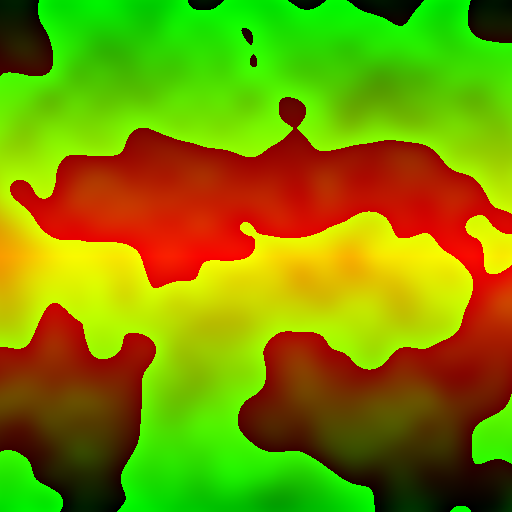
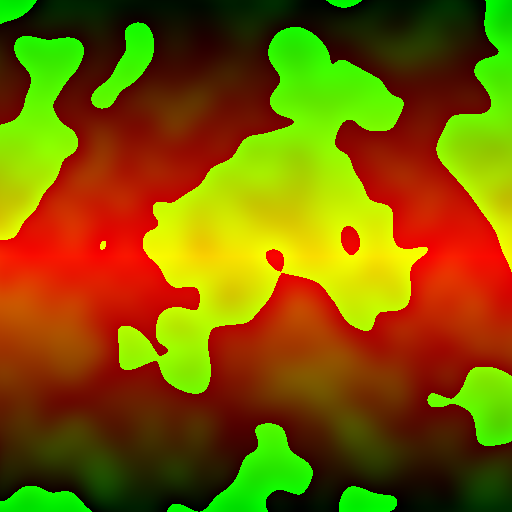
world generation just got more complicated

diff --git a/roguelike/World.cpp b/roguelike/World.cpp
@@ -31,7 +31,7 @@ void World::generate_world() {
 	generate_temperature();
 	generate_terrain();
 	generate_biome_map();
-//	generate_biomes();
+	generate_biomes();
 	
 	new_level(256, 256);
 	save_temp_and_terrain_maps("Data\\World.png");
@@ -73,25 +73,57 @@ void World::generate_terrain() {
 }
 
 void World::generate_biome_map() {
-	float currnoise = 0.0f;
-	float lastnoise = 0.0f;
 	for (int x = 0; x < _width; x++) {
 		for (int y = 0; y < _height; y++) {
 			if (_world[x][y].height <= 0) {
 				_world[x][y].biome_noise = _biome_n.GetNoise(x, y);
-				currnoise = _biome_n.GetNoise(x, y);
-				if (currnoise != lastnoise) {
-					_diff_bnoise.push_back(lastnoise);
-				}
-				lastnoise = currnoise;
 			}
 		}
 	}
 }
 
 void World::generate_biomes() {
-	for (int i = 0; i < _diff_bnoise.size(); i++) {
-		std::cout << _diff_bnoise[i] << std::endl;
+	std::vector<float> vals;
+	for (int x = 0; x < _width; x++) {
+		for (int y = 0; y < _height; y++) {
+			if (_world[x][y].biome_noise != 0.0f) {
+				if (std::find(vals.begin(), vals.end(), _world[x][y].biome_noise) == vals.end()) {
+					vals.push_back(_world[x][y].biome_noise);
+				}
+			}
+		}
+	}
+	std::vector<LevelTile*> lv;
+	for (int i = 0; i < vals.size(); i++) {
+		for (int x = 0; x < _width; x++) {
+			for (int y = 0; y < _height; y++) {
+				if (_world[x][y].biome_noise == vals[i]) {
+					lv.push_back(&_world[x][y]);
+				}
+			}
+		}
+		int avgtmp = 0;
+		for (int j = 0; j < lv.size(); j++) {
+			avgtmp += lv[j]->temp;
+		}
+		avgtmp = avgtmp / lv.size();
+		Level::LEVEL_TYPE biome = Level::NONE;
+		if (avgtmp == 0) {
+			std::shuffle(cold_biomes.begin(), cold_biomes.end(), Random::generator);
+			biome = cold_biomes[0];
+		}
+		else if (avgtmp > 200) {
+			std::shuffle(hot_biomes.begin(), hot_biomes.end(), Random::generator);
+			biome = hot_biomes[0];
+		}
+		else {
+			std::shuffle(temperate_biomes.begin(), temperate_biomes.end(), Random::generator);
+			biome = temperate_biomes[0];
+		}
+		for (int j = 0; j < lv.size(); j++) {
+			lv[j]->biome = biome;
+		}
+		lv.clear();
 	}
 }
 
@@ -127,7 +159,7 @@ void World::save_biome_map(std::string path) {
 	TCODImage img(_width, _height);
 	for (int x = 0; x < _width; x++) {
 		for (int y = 0; y < _height; y++) {
-			img.putPixel(x, y, TCODColor(static_cast<float>(_world[x][y].biome_noise * 255), 255.0f, 255.0f));
+			img.putPixel(x, y, TCODColor(static_cast<float>(_world[x][y].biome), 255.0f, 255.0f));
 		}
 	}
 	img.save(path.c_str());

diff --git a/roguelike/Tile.h b/roguelike/Tile.h
@@ -3,7 +3,7 @@
 #include <libtcod\libtcod.hpp>
 
 #include "Actor.h"
-
+#include "Level.h"
 
 class Tile : public Actor {
 public:
@@ -57,6 +57,13 @@ public:
 		TERRA,
 	};
 	Planet(int x, int y, int z, PLANET_TYPE type);
+
+	virtual void on_pg_down() override;
+};
+
+class Biome : public Actor {
+public:
+	Biome(int x, int y, int z, Level::LEVEL_TYPE type);
 
 	virtual void on_pg_down() override;
 };

diff --git a/roguelike/Level.cpp b/roguelike/Level.cpp
@@ -106,6 +106,13 @@ void Level::generate_level(int size, LEVEL_TYPE type) {
 			Tile::DIRT);
 		generate_trees(Random::one_to_eight, Level::COLD_FLORA);
 		generate_flora(Random::one_to_two_fifty_six, Level::COLD_FLORA);
+	
+	case OCEAN:
+		generate_terrain(0.01f, 1.0f, 0.0f, 0.0f,
+			Tile::WATER,
+			Tile::WATER,
+			Tile::WATER,
+			Tile::WATER);
 	}
 
 	for (int i = 0; i < _actors.size(); i++) {

diff --git a/roguelike/World.h b/roguelike/World.h
@@ -11,7 +11,7 @@ public:
 		Level::LEVEL_TYPE biome;
 		int temp = 0;
 		int height = 0;
-		float biome_noise = 0;
+		float biome_noise = 0.0f;
 	};
 	
 	World();
@@ -61,7 +61,6 @@ private:
 	int _numlevels = 0;
 	int temperature = 250;
 	std::vector<std::vector<LevelTile>> _world;
-	std::vector<float> _diff_bnoise;
 	Level* _currlevel;
 	FastNoise _terrain_n;
 	FastNoise _biome_n;

diff --git a/roguelike/Game.cpp b/roguelike/Game.cpp
@@ -16,6 +16,7 @@ Game::~Game()
 void Game::init() {
 	TCODConsole::setCustomFont("terminal12x12_gs_ro.png", TCOD_FONT_LAYOUT_ASCII_INROW);
 	TCODConsole::initRoot(_screen_width, _screen_height, "Rogue Stars", false, TCOD_RENDERER_GLSL);
+	GameObjects::game = this;
 }
 
 void Game::start() {

diff --git a/roguelike/Level.h b/roguelike/Level.h
@@ -21,6 +21,7 @@ public:
 		HILLS,
 		DESERT,
 		SNOWY_TAIGA,
+		OCEAN,
 	};
 	
 	enum GENERATION_FLAG {

diff --git a/roguelike/GameObjects.h b/roguelike/GameObjects.h
@@ -7,7 +7,6 @@
 #include <map>
 #include <string>
 
-
 class GameObjects
 {
 public:
